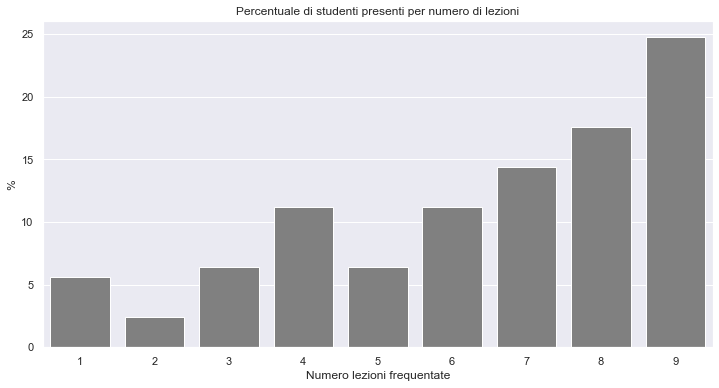
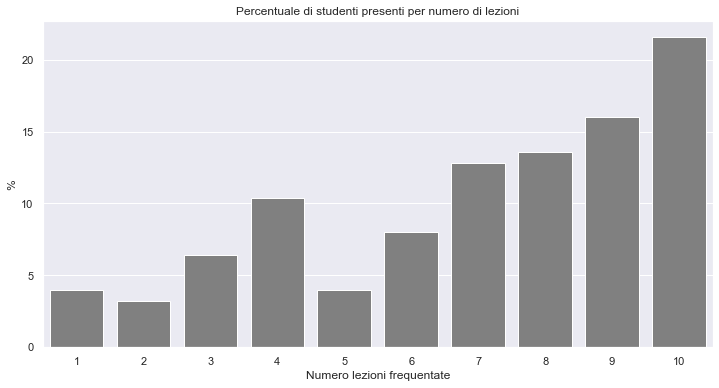
Added new freq

diff --git a/sito/frequenze.md b/sito/frequenze.md
@@ -8,7 +8,7 @@ Questa pagina contiene una analisi *aggregata* delle informazioni riguardanti la
 
 Il primo grafico riporta il numero assoluto di studenti presenti 
 per ciascuna lezione che si è svolta alla data odierna, in media
-sono stati presenti **88.66** ($\sigma=6.76$) studenti.
+sono stati presenti **87.2** ($\sigma=7.88$) studenti.
 
 
 
